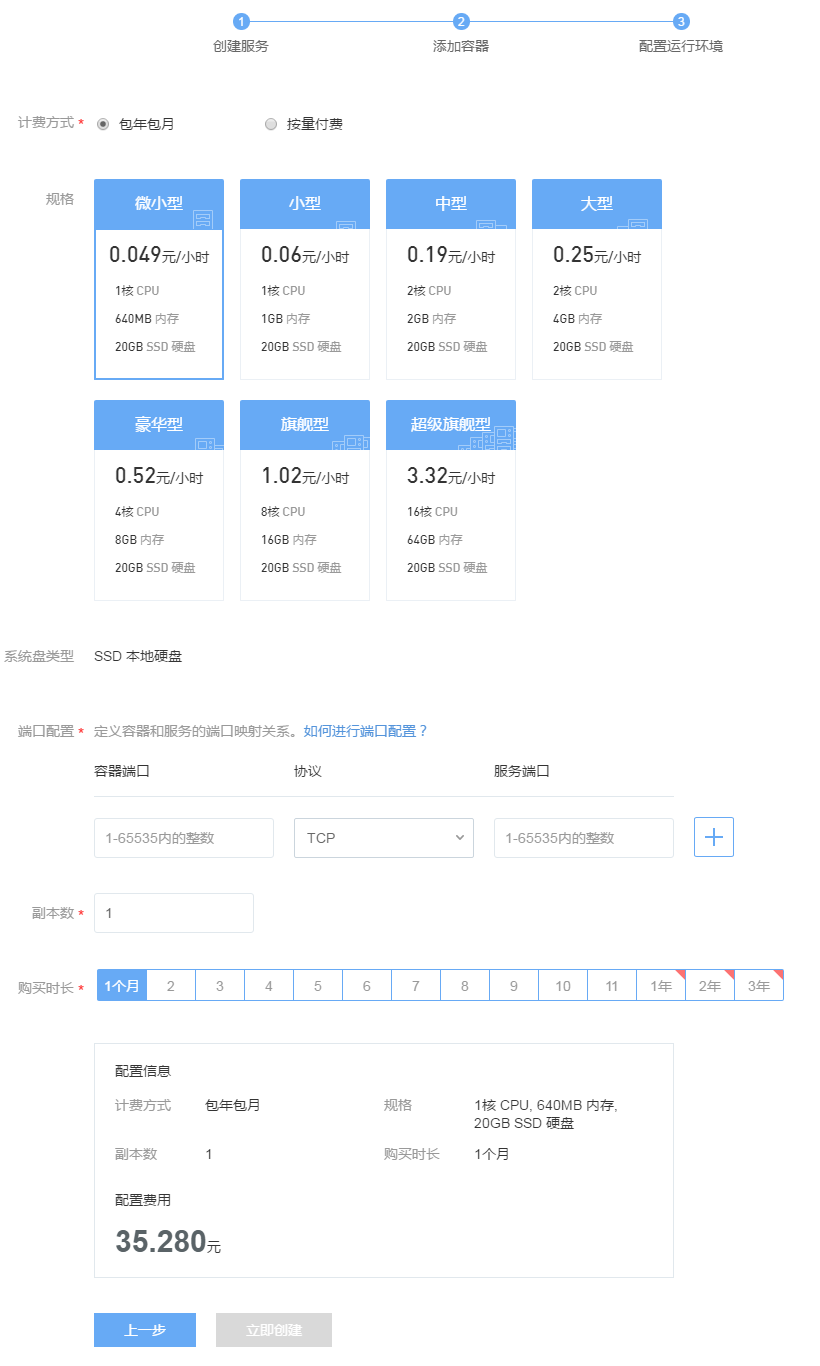
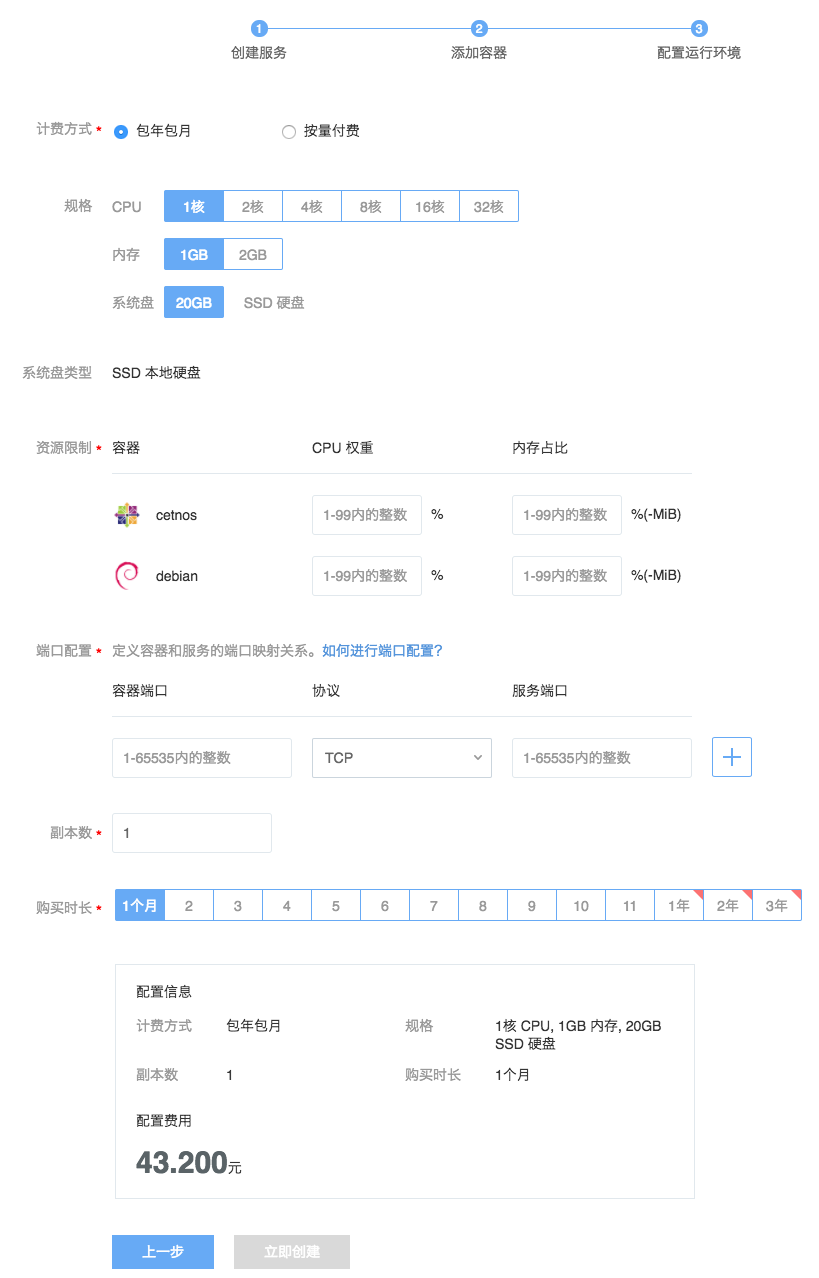
Enhanment:创建无状态服务

diff --git a/容器服务/服务管理/使用指南/创建无状态服务.md b/容器服务/服务管理/使用指南/创建无状态服务.md
@@ -76,13 +76,13 @@
 
 ![](../image/创建服务-创建无状态服务-配置运行环境.png)
 
-#### 服务名称
-填写服务名称，由 1~63 位小写字母、数字或中划线组成，以字母开头，字母或数字结尾。
-
 #### 规格
 你可以选择合适自己项目的规格。
 
 <span>Attention:</span><div class="alertContent">若使用蜂巢官方镜像，建议参考镜像中心的对应镜像说明的推荐规格</div>
+
+#### 资源限制
+当在一个副本中运行多个容器时，各个容器将会共享副本的计算资源（CPU 和内存），详见 [多容器资源限制](http://127.0.0.1:8080/md.html#!容器服务/服务管理/常见问题/多容器资源限制.md)
 
 #### 端口配置
 端口配置定义了容器和服务的端口映射关系，在容器端口填写进程监听的端口，在服务端口填写服务对外提供的端口。详见 [如何进行端口配置](http://support.c.163.com/wiki/md.html#!容器服务/服务管理/使用指南/如何进行端口配置.md)。
